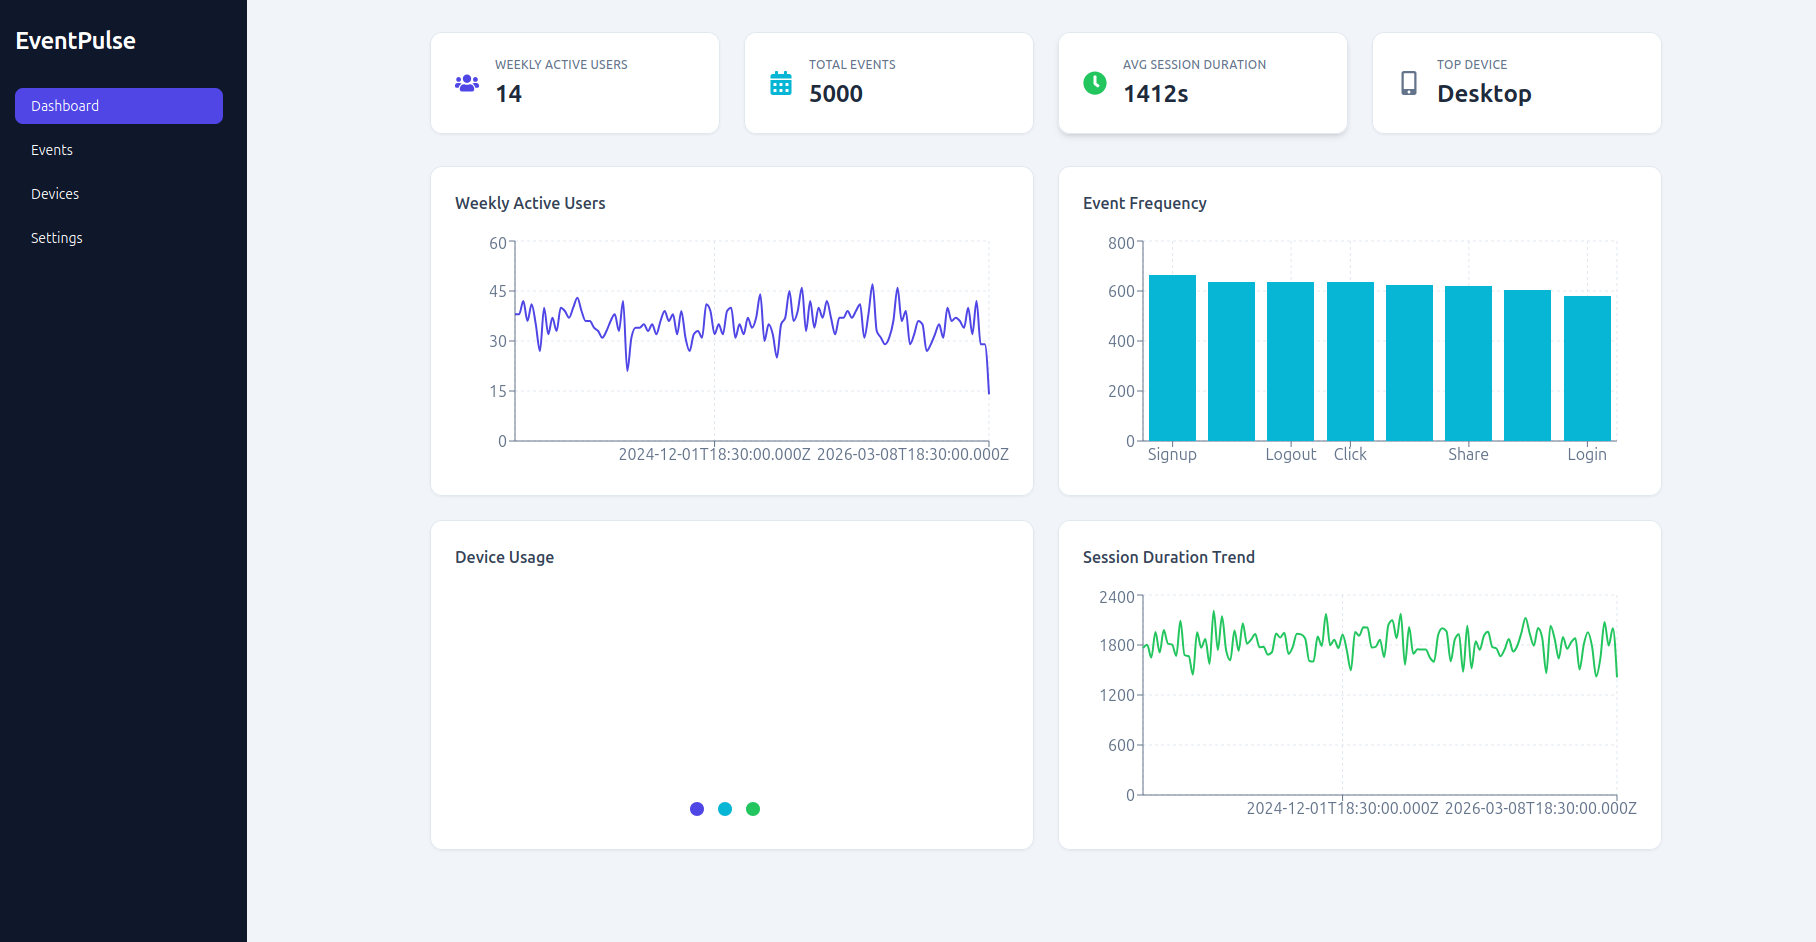
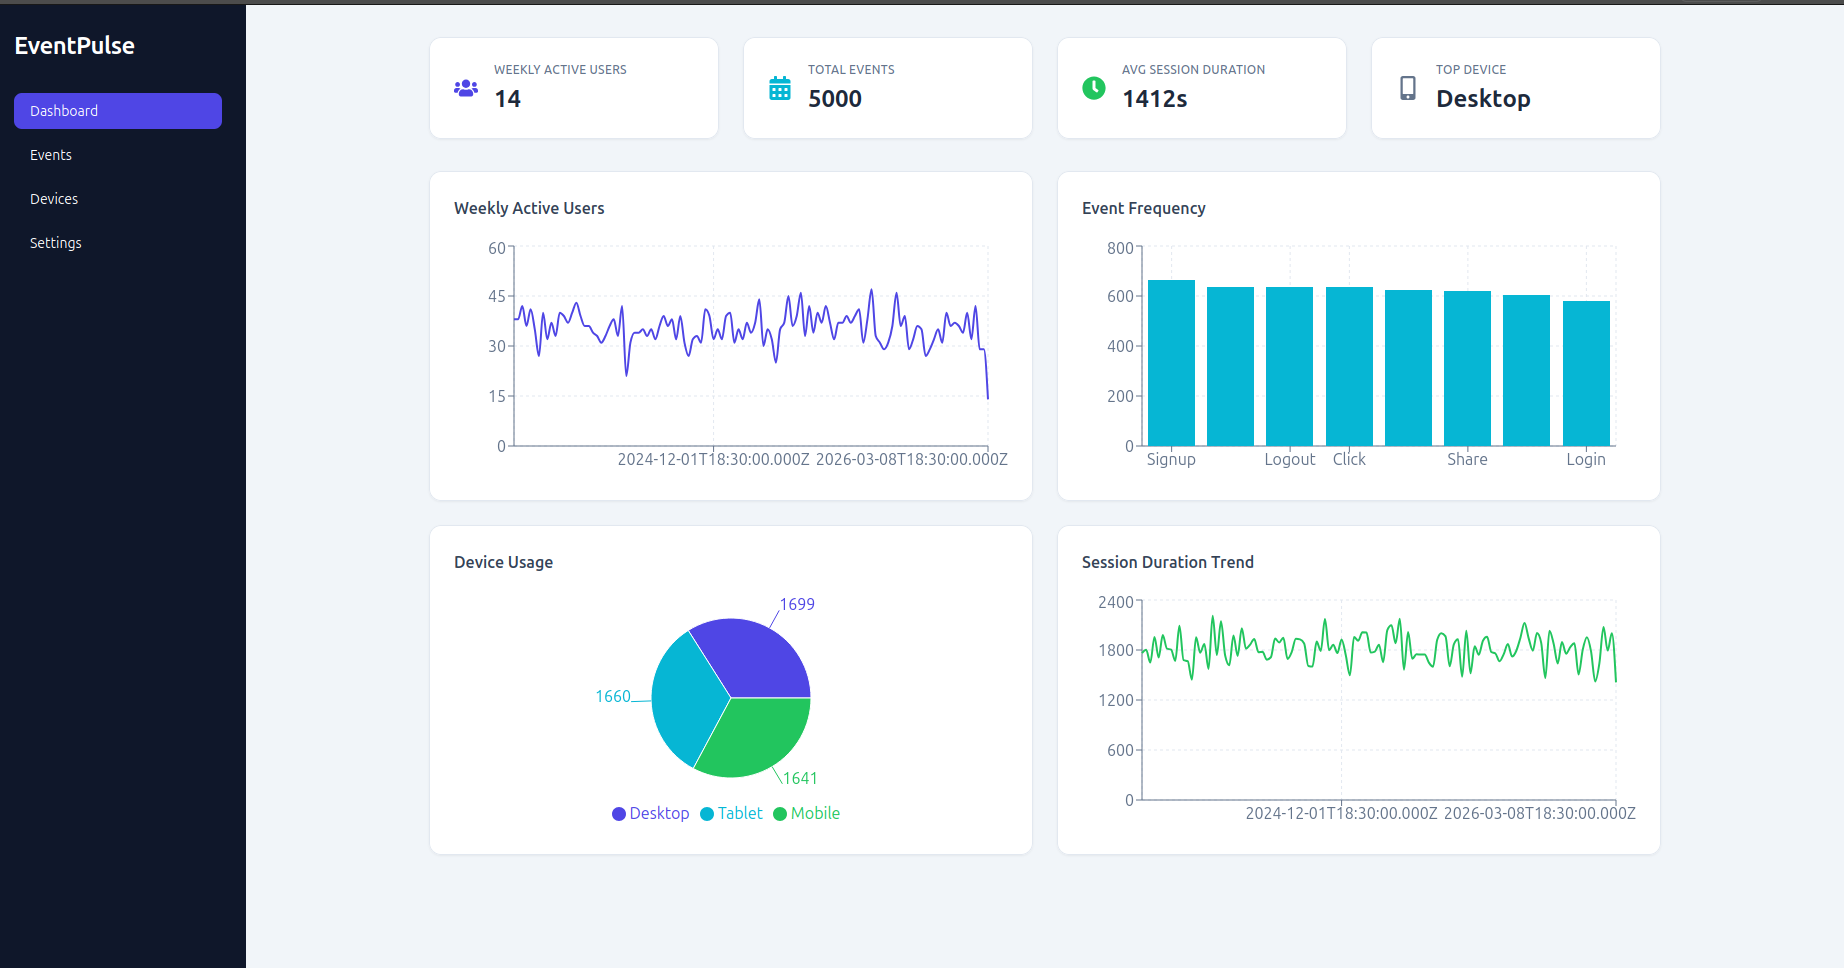
minor fix - fixed a bug in DashBOard.jsx

diff --git a/frontend/src/pages/Dashboard.jsx b/frontend/src/pages/Dashboard.jsx
@@ -17,7 +17,13 @@ export default function Dashboard() {
   useEffect(() => {
     getWeeklyActiveUsers().then(res => setWeeklyUsers(res.data));
     getEventFrequency().then(res => setEventFrequency(res.data));
-    getDeviceUsage().then(res => setDeviceUsage(res.data));
+    getDeviceUsage().then(res => {
+      // Convert count to number for recharts
+      const data = Array.isArray(res.data)
+        ? res.data.map(d => ({ ...d, count: Number(d.count) }))
+        : [];
+      setDeviceUsage(data);
+    });
     getSessionDuration().then(res => setSessionDuration(res.data));
   }, []);
 

diff --git a/frontend/src/pages/Devices.jsx b/frontend/src/pages/Devices.jsx
@@ -3,10 +3,17 @@ import DeviceUsageChart from '../charts/DeviceUsageChart';
 import { getDeviceUsage } from '../services/api';
 
 export default function Devices() {
+
   const [deviceUsage, setDeviceUsage] = useState([]);
 
   useEffect(() => {
-    getDeviceUsage().then(res => setDeviceUsage(res.data));
+    getDeviceUsage().then(res => {
+      // Convert count to number for recharts
+      const data = Array.isArray(res.data)
+        ? res.data.map(d => ({ ...d, count: Number(d.count) }))
+        : [];
+      setDeviceUsage(data);
+    });
   }, []);
 
   return (
